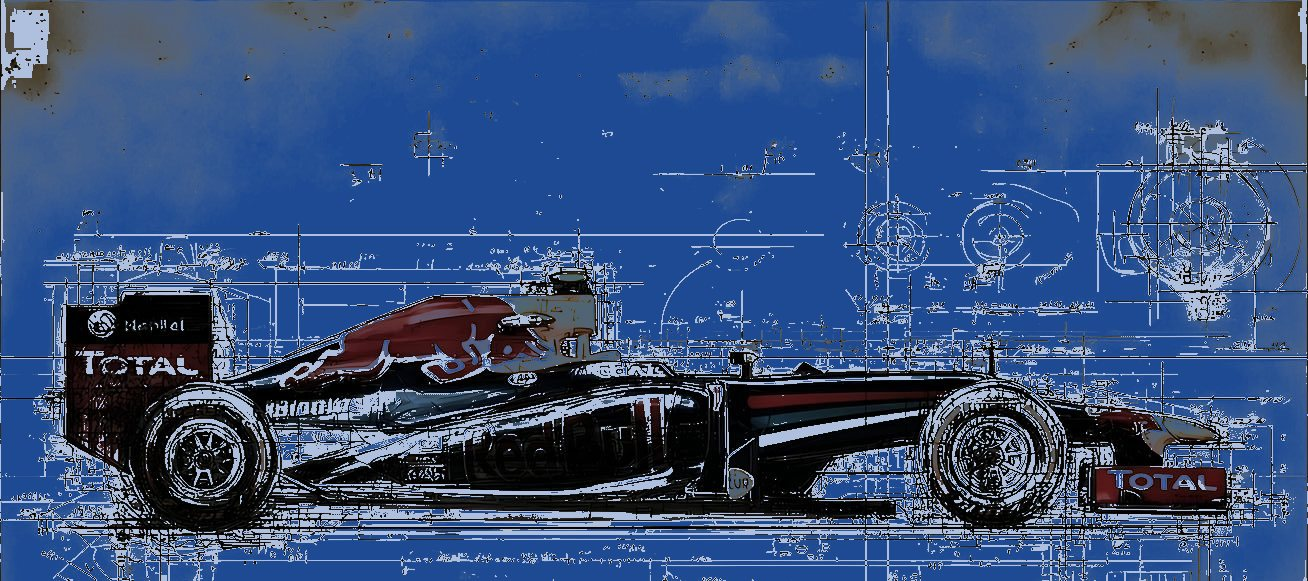
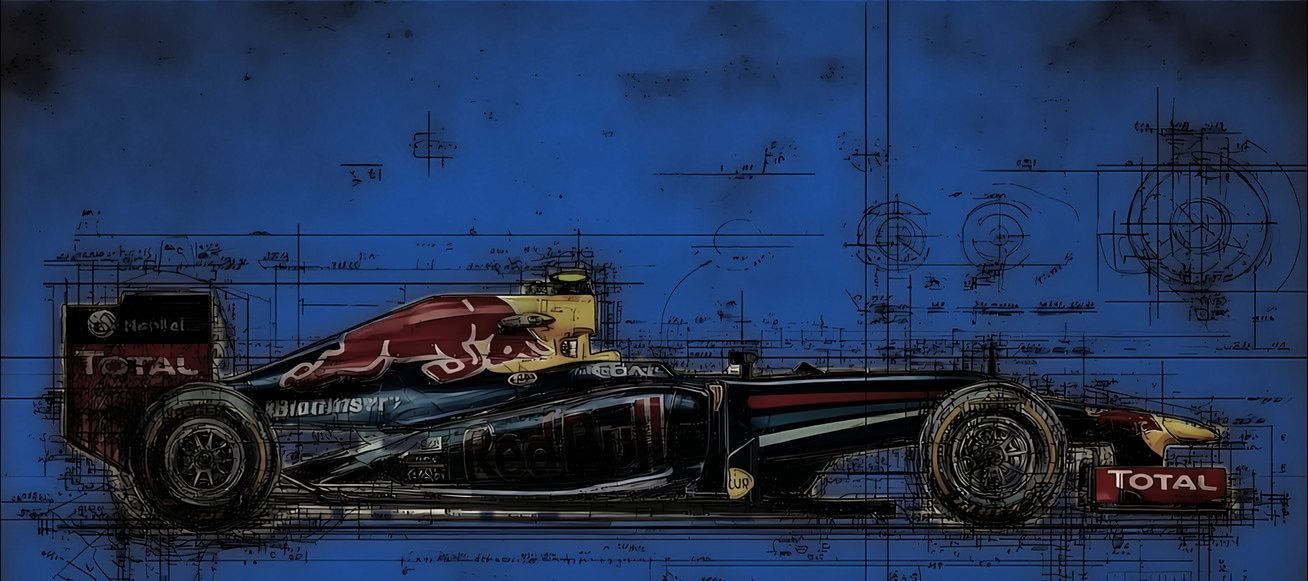
Blue paper in the car picture, keeping the stains

diff --git a/scripts/build_panels.py b/scripts/build_panels.py
@@ -19,7 +19,7 @@ Inputs
     GH_USER                       GitHub login to read statistics for
     OUT_DIR                       folder holding github-snake-dark.svg; output goes here
     scripts/profile_content.json  name, quote, driver status, trophies, tech stack and radio messages
-    assets/car-blueprint.jpg      picture shown in the card under the name
+    assets/car-blueprint.jpg      picture shown in the card (the sketch with its paper turned blueprint blue)
 
 Output
     OUT_DIR/profile.svg
@@ -249,7 +249,7 @@ NAVY, BLUE, CAN = "#233268", "#1D19AF", "#F4ECEF"
 RED, YELLOW = "#B8343F", "#D9B13B"                # team red and yellow, aged slightly to suit the paper
 WHITE = "#FFFFFF"
 PANEL = "#0C1E4A"                                 # deep ink blue for the dark panels
-PANEL_AGEING = 0.4                                # how strongly the paper stains show through the dark panels
+PANEL_AGEING = 0.0                                # how strongly the paper stains show through the dark panels
 PURPLE, GREEN = "#C77DFF", "#3DDC84"            # F1 timing colours: fastest / personal best
 TYRES = [  # (letter, colour) in the order the tech-stack rows use them
     ("S", "#B8343F"), ("M", "#D9B13B"), ("H", "#FFFFFF"), ("I", "#43B047"), ("W", "#0067AD"), ("S", "#B8343F"), ("M", "#D9B13B"),
@@ -734,11 +734,8 @@ def paper_defs(height: int) -> str:
 
 
 def aged_paper(width: int, height: int) -> str:
-    """Base paper tone, stains, grain and smoky edges, stacked in that order."""
-    return (f'<rect x="18" y="18" width="{width}" height="{height}" fill="{PAPER}"/>'
-            f'<rect x="18" y="18" width="{width}" height="{height}" filter="url(#stains)" opacity="0.55"/>'
-            f'<rect x="18" y="18" width="{width}" height="{height}" filter="url(#grain)" opacity="0.5"/>'
-            f'<rect x="18" y="18" width="{width}" height="{height}" fill="url(#vignette)"/>')
+    """Plain blueprint-blue paper."""
+    return f'<rect x="18" y="18" width="{width}" height="{height}" fill="{PAPER}"/>'
 
 
 def drafting_lines(height: int) -> str:
